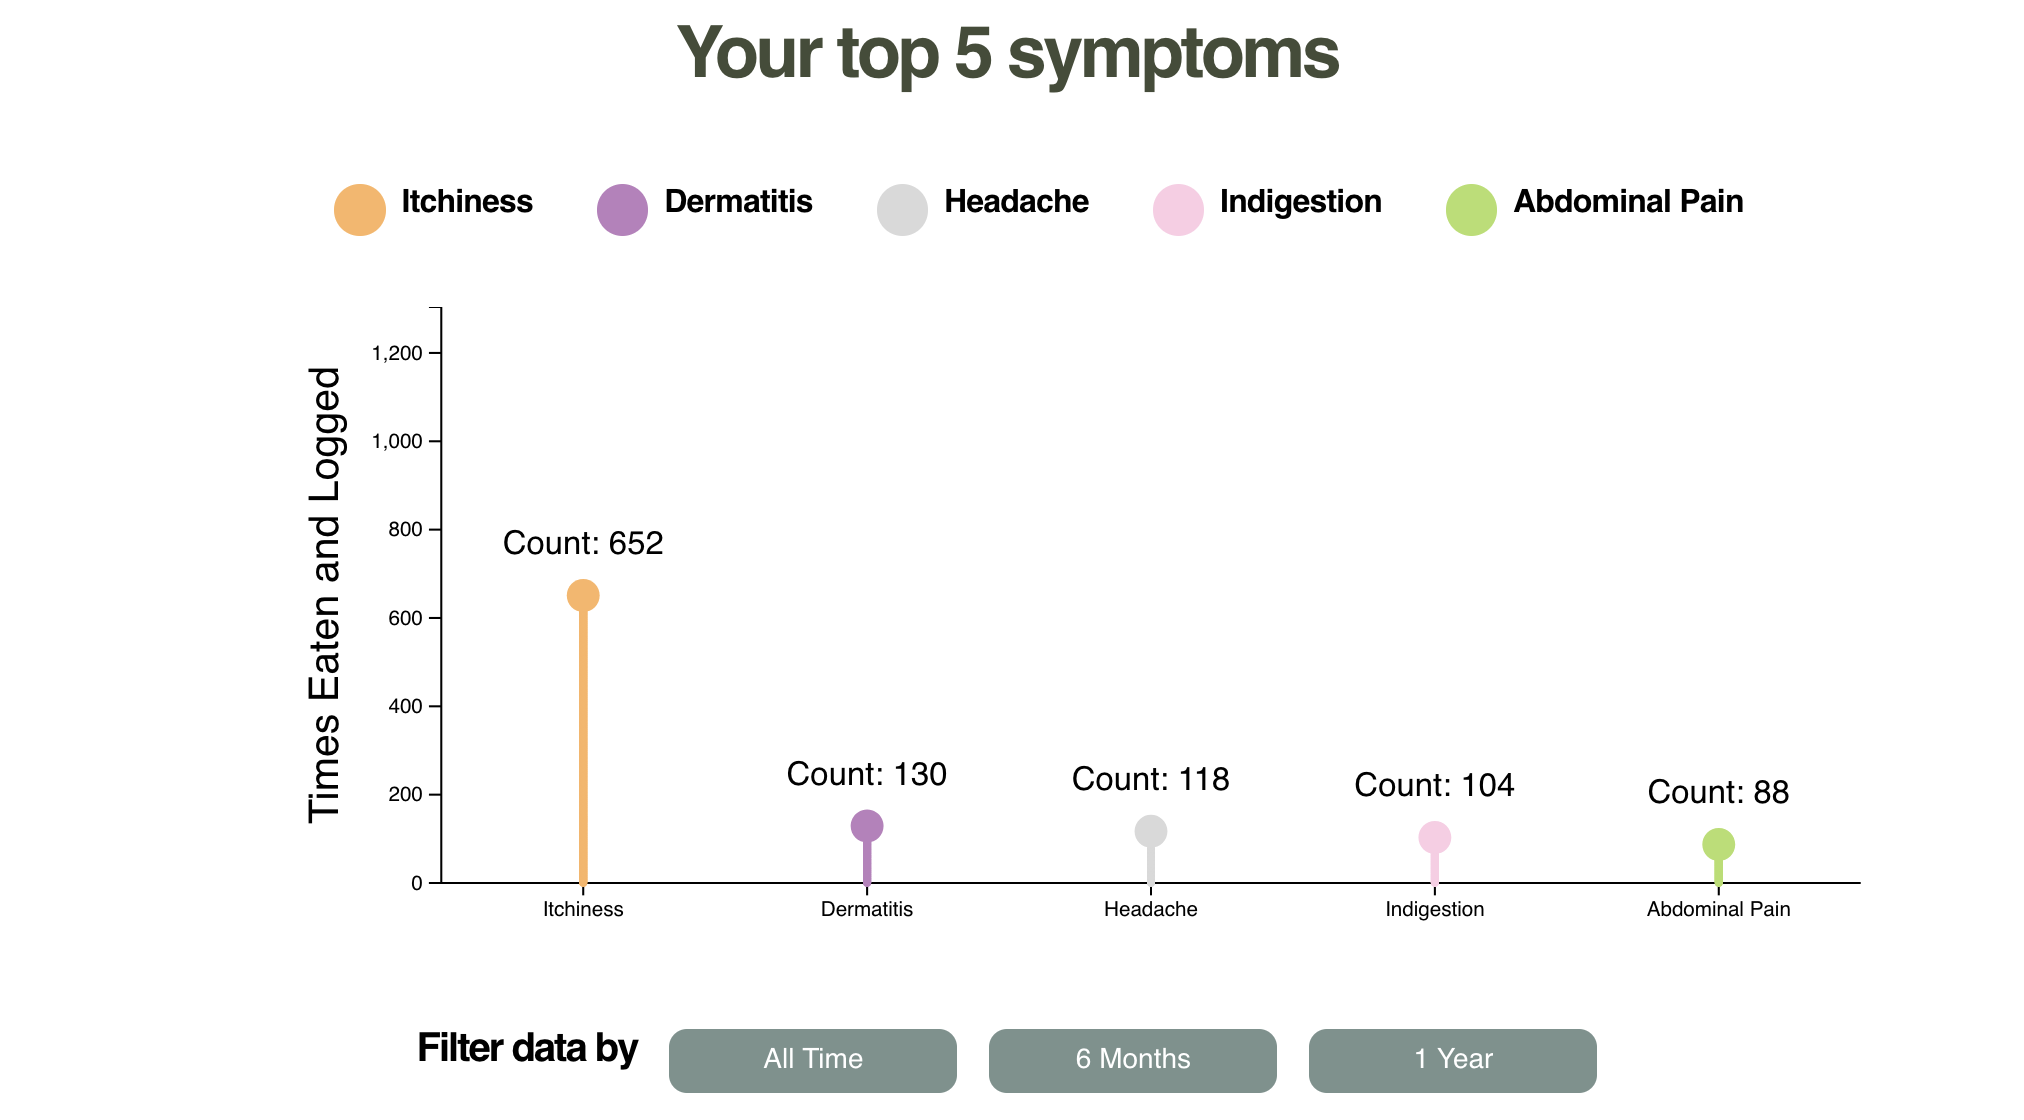
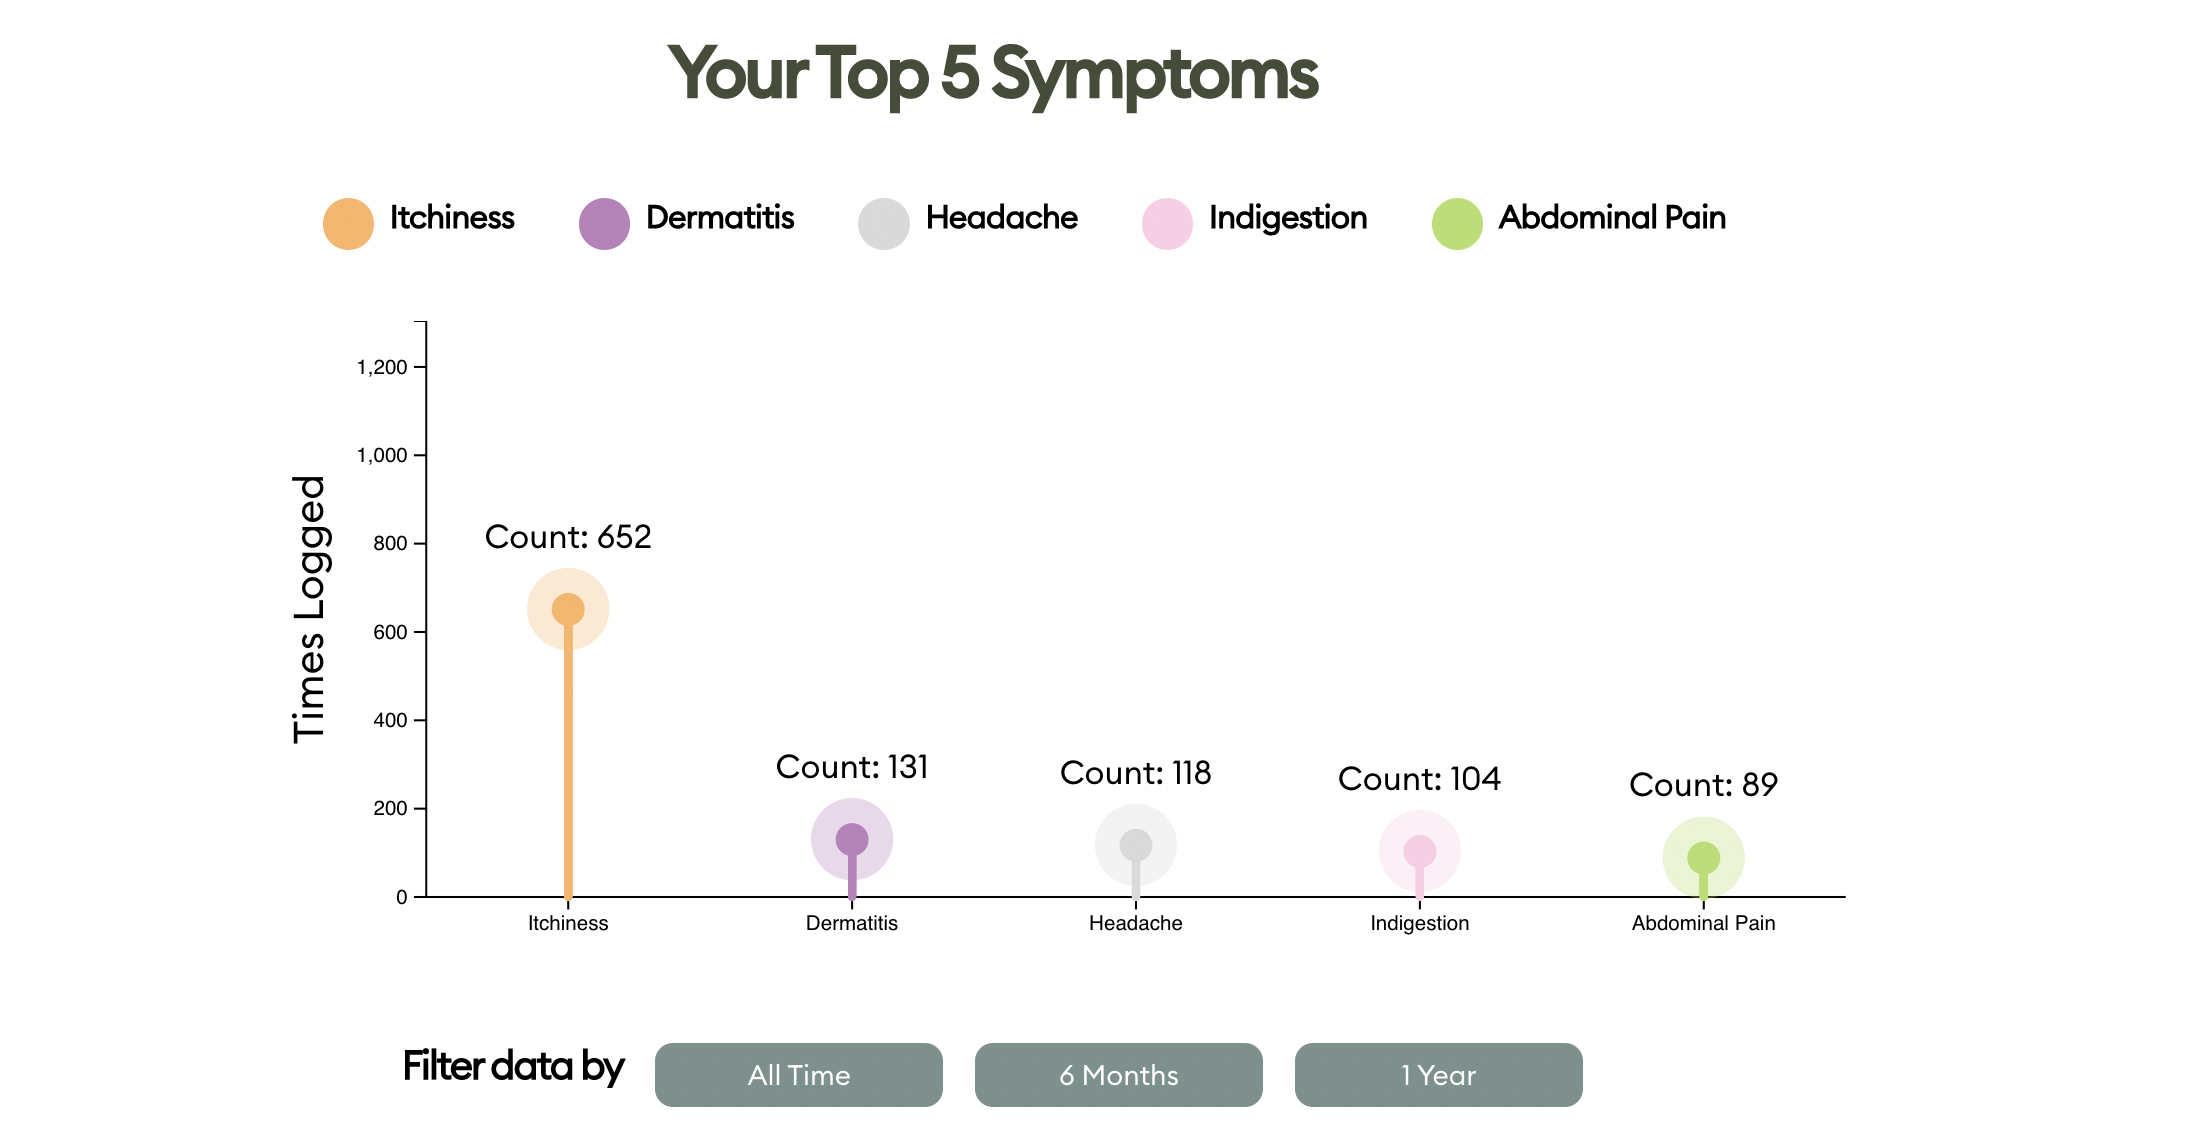
buttons and home page

diff --git a/frontend/src/components/graph/TopFoods.js b/frontend/src/components/graph/TopFoods.js
@@ -1,4 +1,4 @@
-import React, { useEffect, useRef } from "react";
+import React, { useEffect, useRef, useState } from "react";
 import { useDispatch, useSelector } from "react-redux";
 import { select, create } from "d3-selection";
 import { scaleBand, scaleLinear } from "d3-scale";
@@ -36,14 +36,18 @@ const TopFoods = () => {
   const topFoods = data.foods ? data.foods.slice(0, 10) : [];
 
   const counts = topFoods ? topFoods.map((food) => food.count) : [];
+  const [selectedFilter, setSelectedFilter] = useState("");
 
   const handleGetAllTime = async (all) => {
+    setSelectedFilter("allTime");
     await dispatch(getUserStats("all"));
   };
   const handleGetSixMonths = async (halfYear) => {
+    setSelectedFilter("sixMonths");
     await dispatch(getUserStats(180));
   };
   const handleGetOneYear = async (oneYear) => {
+    setSelectedFilter("oneYear");
     await dispatch(getUserStats(365));
   };
 
@@ -78,30 +82,32 @@ const TopFoods = () => {
   }
 
   useEffect(() => {
-    const svg = select(svgRef.current)
-      // .style("position", "absolute")
-      // .style("pointer-events", "none");
+    const svg = select(svgRef.current);
+    // .style("position", "absolute")
+    // .style("pointer-events", "none");
     svg.selectAll("*").remove();
     const margin = { top: 10, right: 10, bottom: 130, left: 100 };
     const width = 950 - margin.left - margin.right;
     const height = 500 - margin.top - margin.bottom;
 
     const parent = create("div");
-    parent.append("svg")
-        .attr("width", width)
-        .attr("height", height)
-        .style("position", "absolute")
-        .style("pointer-events", "none")
-        .style("z-index", 1)
-        .style("overflow-x", "scroll")
-        .style("-webkit-overflow-scrolling", "touch")
-        .call(svg => svg.append("g"));
+    parent
+      .append("svg")
+      .attr("width", width)
+      .attr("height", height)
+      .style("position", "absolute")
+      .style("pointer-events", "none")
+      .style("z-index", 1)
+      .style("overflow-x", "scroll")
+      .style("-webkit-overflow-scrolling", "touch")
+      .call((svg) => svg.append("g"));
 
     const g = svg
       .append("g")
       .attr("transform", `translate(${margin.left}, ${margin.top})`);
 
-    if (topFoods && topFoods.length > 0) {
+    for (const topFood of topFoods) {
+      if (topFood.count > 10) {
       // y axis label
       g.append("text")
         .attr("x", -(height / 2))
@@ -133,24 +139,22 @@ const TopFoods = () => {
 
       g.append("g").call(yAxis);
 
-      const nodes = g
-      .selectAll("circle")
-      .data(topFoods)
+      const nodes = g.selectAll("circle").data(topFoods);
 
       nodes
-      .enter()
-      .append("circle")
-      .attr("cx", (food) => xScale(food.name) + xScale.bandwidth() / 2)
-      .attr("cy", (food) => yScale(food.count))
-      .attr("r", 10)
-      .attr("fill",  (d)=>foodsColors[d.groups[0]])
-      .style("opacity", 0.3)
-      .transition()
-      .duration(1000)
-      .delay((d, i) => i * 1000)
-      .ease(easeElasticOut)
-      .attr("r", 20);
-      nodes.exit().remove()
+        .enter()
+        .append("circle")
+        .attr("cx", (food) => xScale(food.name) + xScale.bandwidth() / 2)
+        .attr("cy", (food) => yScale(food.count))
+        .attr("r", 10)
+        .attr("fill", (d) => foodsColors[d.groups[0]])
+        .style("opacity", 0.3)
+        .transition()
+        .duration(1000)
+        .delay((d, i) => i * 1000)
+        .ease(easeElasticOut)
+        .attr("r", 20);
+      nodes.exit().remove();
 
       g.selectAll("circle").data(topFoods).join("circle");
 
@@ -158,10 +162,11 @@ const TopFoods = () => {
         const currentFood = topFoods[i];
         const groupName = currentFood.groups[0];
         for (let j = 0; j < counts[i]; j++) {
+          console.log(counts[i]);
           g.append("circle")
             .attr(
               "cx",
-              xScale(currentFood.name) + margin.left / 2 - margin.right + 2
+              xScale(currentFood.name) + xScale.bandwidth() / 2
             )
             .attr("cy", yScale(j))
             .attr("fill", foodsColors[groupName])
@@ -170,7 +175,7 @@ const TopFoods = () => {
             g.append("text")
               .attr(
                 "x",
-                xScale(currentFood.name) + margin.left / 2 - margin.right
+                xScale(currentFood.name) + xScale.bandwidth() / 2
               )
               .attr("y", yScale(j) - 30)
               .attr("text-anchor", "middle")
@@ -178,7 +183,16 @@ const TopFoods = () => {
           }
         }
       }
+      } else {
+        g.append("text")
+        .attr("x", `${width - margin.left}`)
+        .attr("y", `${height / 2}`)
+          .attr("font-size", "20px")
+          .attr("text-anchor", "middle")
+          .text("Sorry not enough data for this time period.");
+      }
     }
+
   }, [data]);
 
   return (
@@ -228,27 +242,30 @@ const TopFoods = () => {
         </Container>
         <Container display="flex" alignItems="center" justify="center" css={{gap: "1rem"}}>
           <Text h4>Filter data by</Text>
-            <Button
-              onPress={handleGetAllTime}
-              type="button"
-              aria-label="Button to filter chart top foods view by all time"
-              size="sm"
-              text="All Time"
-            />
-            <Button
-              onPress={handleGetSixMonths}
-              type="button"
-              aria-label="Button to filter chart top foods view by six months"
-              size="sm"
-              text="6 Months"
-            />
-            <Button
-              onPress={handleGetOneYear}
-              type="button"
-              size="sm"
-              aria-label="Button to filter chart top foods view by one year"
-              text="1 Year"
-            />
+          <Button
+        onPress={handleGetAllTime}
+        type="button"
+        aria-label="Button to filter chart top foods view by all time"
+        size="sm"
+        color={selectedFilter === "allTime" ? "secondary" : "default"}
+        text="All Time"
+      />
+      <Button
+        onPress={handleGetSixMonths}
+        type="button"
+        aria-label="Button to filter chart top foods view by six months"
+        size="sm"
+        color={selectedFilter === "sixMonths" ? "secondary" : "default"}
+        text="6 Months"
+      />
+      <Button
+        onPress={handleGetOneYear}
+        type="button"
+        size="sm"
+        aria-label="Button to filter chart top foods view by one year"
+        color={selectedFilter === "oneYear" ? "secondary" : "default"}
+        text="1 Year"
+      />
         </Container>
       </Container>
     </>

diff --git a/frontend/src/components/graph/TopSymptoms.js b/frontend/src/components/graph/TopSymptoms.js
@@ -20,13 +20,14 @@ import { HeaderText, Button } from "../nextUI";
  * @returns three <button> elements: filter by (1) all time, (2) half a year, (3) 1 year
  */
 const TopSymptoms = () => {
+  const [showChart, setShowChart] = useState(false);
   const svgRef = useRef();
   const allSymptoms = useSelector(selectSymptoms);
   const dispatch = useDispatch();
   const data = useSelector(selectUserStats);
   const symptoms = data.symptoms ? data.symptoms.slice(0, 5) : [];
   const counts = symptoms ? symptoms.map((symptom) => symptom.count) : [];
-  const colorPalette = d3.schemeSet3; // Define a color palette for the symptoms and map each symptom to a unique color
+  const colorPalette = ["A8E6Ce","#478c80","#167288", "#b45248","#8cdaec", "#d48c84", "#a89a49", "#9bddb1", "#836394", "#3cb464", ]; // Define a color palette for the symptoms and map each symptom to a unique color
 
   const symptomColors = {};
   for (let i = 0; i < allSymptoms.length; i++) {
@@ -39,9 +40,15 @@ const TopSymptoms = () => {
     await dispatch(getUserStats("all"));
     // const symptoms = data.symptoms ? data.symptoms.slice(0, 5) : [];
   };
-  const handleGetSixMonths = async (halfYear) => {
-    await dispatch(getUserStats(180));
-  };
+const handleGetSixMonths = async (halfYear) => {
+  await dispatch(getUserStats(180));
+  if (!data.symptoms || data.symptoms.length <= 1) {
+    alert("No data currently to show");
+    setShowChart(false);
+  } else {
+    setShowChart(true);
+  }
+};
   const handleGetOneYear = async (oneYear) => {
     await dispatch(getUserStats(365));
   };
@@ -100,16 +107,6 @@ const TopSymptoms = () => {
           .text("Times Logged");
       }
 
-      // g.selectAll("circle")
-      // .data(symptoms)
-      // .join("circle")
-      // .attr("cx", (d) => xScale(d.name))
-      // .attr("cy", (d) => yScale(d.count))
-      // .attr("fill", (d) => symptomColors[d.name])
-      // .attr("r", 2) // start with a radius of 2
-      // .transition() // add a transition
-      // .duration(110) // specify the duration of the animation in milliseconds
-      // .attr("r", (d) => d.count > 0 ? 8 : 2); 
 
       g.selectAll("circle")
       .data(symptoms)

diff --git a/frontend/src/components/graph/CirclePacking.js b/frontend/src/components/graph/CirclePacking.js
@@ -43,7 +43,7 @@ const CirclePacking = () => {
 
   const userSymptoms = datas.map((obj) => obj.symptom); // Get an array of the user's symptoms
 
-  const colorPalette = d3.schemeSet3; // Define a color palette for the symptoms and map each symptom to a unique color
+  const colorPalette = ["A8E6Ce","#478c80","#167288", "#b45248","#8cdaec", "#d48c84", "#a89a49", "#9bddb1", "#836394", "#3cb464", ]; // Define a color palette for the symptoms and map each symptom to a unique color
   const symptomColors = {};
   for (let i = 0; i < symptoms.length; i++) {
     const symptomName = symptoms[i].name;
@@ -58,7 +58,7 @@ const CirclePacking = () => {
   useEffect(() => {
     const svg = d3.select(svgRef.current);
      // Set the viewBox attribute
-     svg.attr("viewBox", "400 18 100 520");
+     svg.attr("viewBox", "400 8 100 500");
 
      // Set the width and height using CSS
      svg.style("width", "100%");

diff --git a/frontend/src/components/Profile.js b/frontend/src/components/Profile.js
@@ -50,17 +50,15 @@ const Profile = () => {
   const buttonMargin = { marginRight: "0.5rem" };
 
   const getCss = (idx) => {
-    if (idx === graphIdx) {
-      return {
-        backgroundColor: "#7a918d",
-        color: "white",
-      };
-    } else {
-      return {
-        backgroundColor: "#7a918d",
-        color: "white",
-      };
-    }
+    const isActive = idx === graphIdx;
+    return {
+      backgroundColor: isActive ? "#4c6357" : "#7a918d",
+      color: "white",
+      "&:active": {
+        backgroundColor: isActive ? "#2d3b33" : "#4c6357",
+      },
+      marginRight: "0.5rem",
+    };
   };
 
   return (

diff --git a/frontend/src/components/graph/ScatterPlot.js b/frontend/src/components/graph/ScatterPlot.js
@@ -285,6 +285,7 @@ const ScatterPlot = () => {
       .attr("y", height + 40)
       .text("Months");
 
+
     const updateAxis = ({ target }) => {
       let newStartDate = new Date(dateRange[1]);
       newStartDate.setMonth(newStartDate.getMonth() - target.value);
